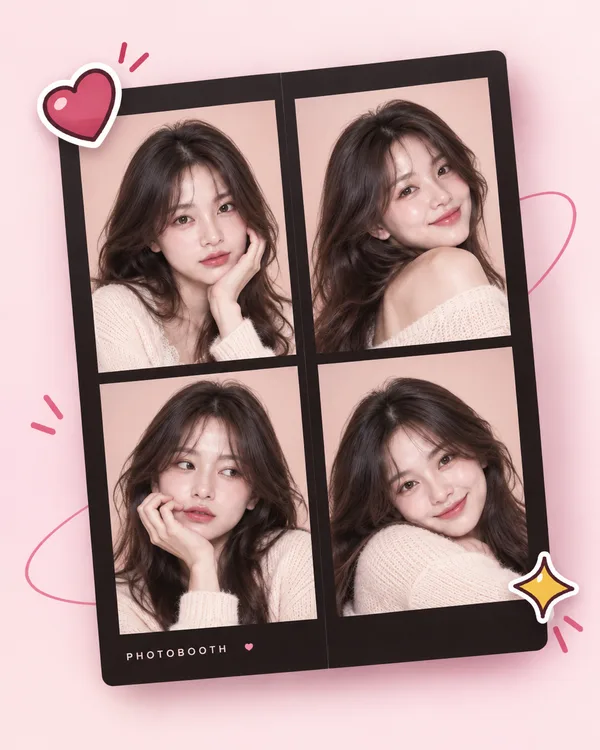
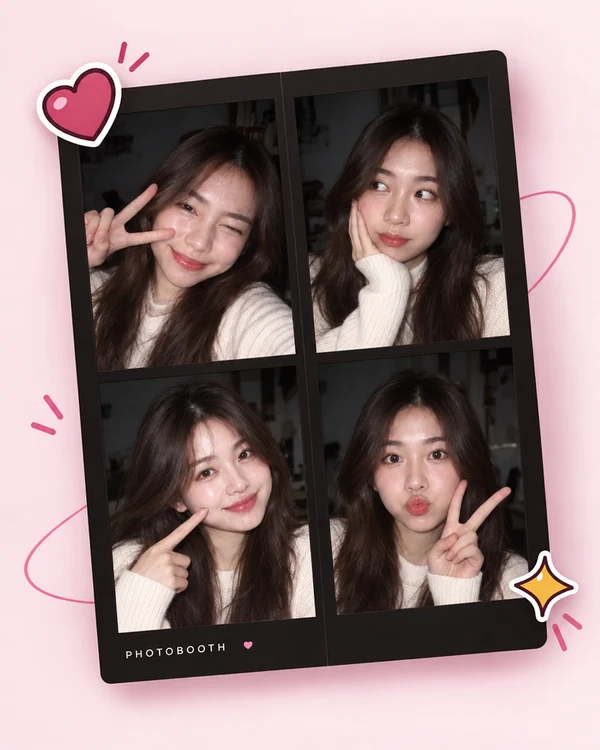
docs: unify README photos with the reference portraits

diff --git a/README.md b/README.md
@@ -51,7 +51,7 @@ Mỗi bước được kiểm tra quyền truy cập: mở thẳng link hoặc t
 | **Studio** | **Kết quả** |
 | ![Studio](docs/images/studio.webp) | ![Kết quả](docs/images/result.webp) |
 
-<sub>Ảnh trên là bản thiết kế UI; giao diện thực tế có thể khác đôi chút.</sub>
+<sub>Các bản thiết kế dùng chung bộ ảnh mẫu với màn Chụp/Xem lại; giao diện thực tế có thể khác đôi chút.</sub>
 
 <details>
 <summary><b>Nhận diện thương hiệu</b></summary>
